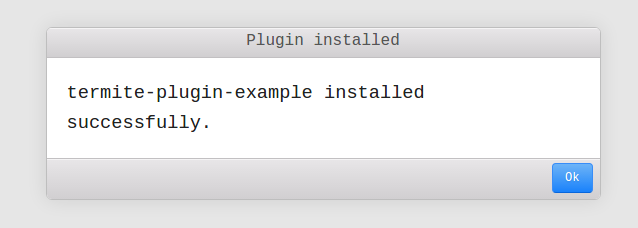
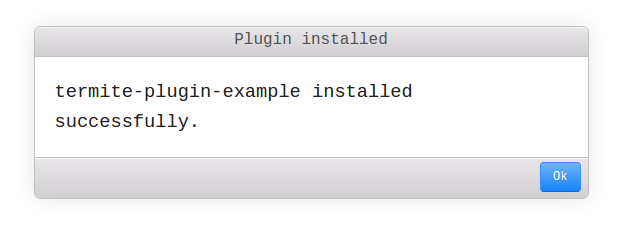
media

diff --git a/src/style.css b/src/style.css
@@ -1,13 +1,20 @@
 .nice-dialogs {
   padding: 0;
-  background-color: $chrome-color;
+  background-color: #fff;
   border: 1px solid #bebebe;
   border-radius: 6px;
   box-shadow: 0 0 30px rgba(0,0,0,.1);
   overflow: hidden;
 }
+
+/*
+.nice-dialogs::backdrop {
+  background-color: #fff;
+}
+*/
+
 .nice-dialogs header h1 {
-    font-size: large;
+  font-size: large;
 }
 .nice-dialogs main {
   padding:20px;
